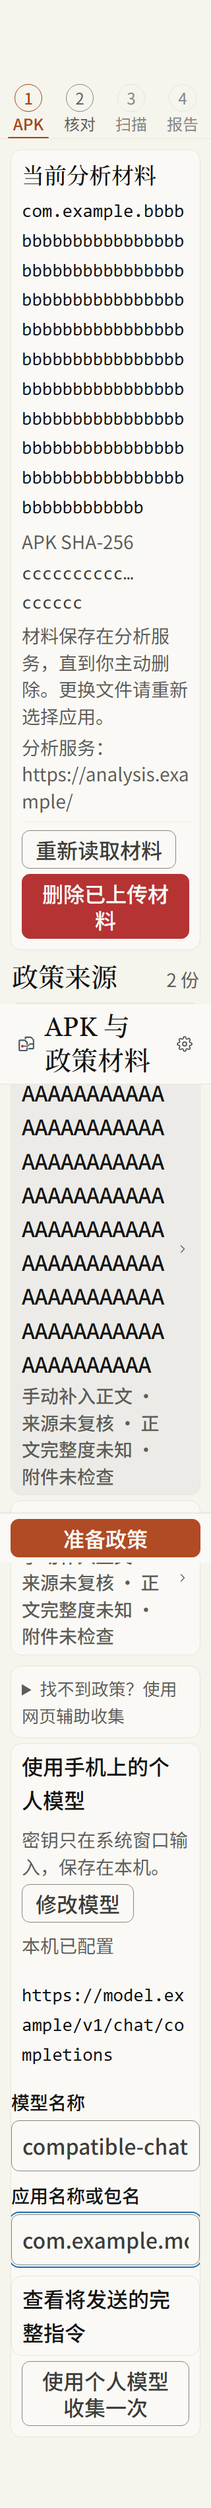
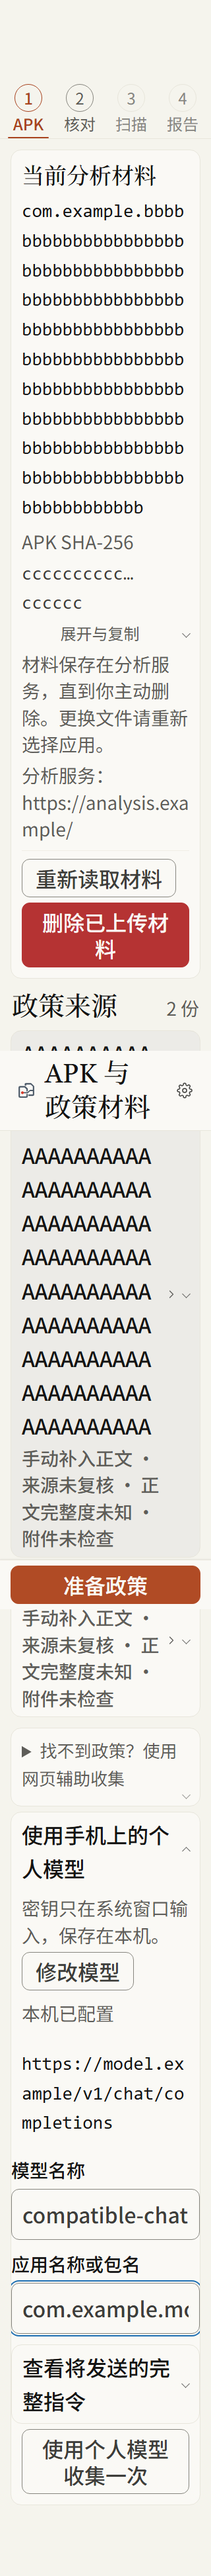
docs(acceptance): 记录 #295 独立审阅处置并重拍证据
- 新增审阅结论与处置：两项必修（报告内部代码/原始时间泄漏、取消分析
  危险语义）已修，可发现性问题已修，结构性问题记为下一轮
- 规范 §16 补充折叠指示、中断操作、分段控件换行与内部代码折叠的约定
- 重拍 320/200、失败态与 390 reading 截图；补导入空态、删除确认、
  设置页、行内证据四张审阅缺口截图

Changed region(s): [[0.0625, 0.0311, 0.9375, 0.9649], [0.8438, 0.3735, 0.9375, 0.4358], [0.7812, 0.7782, 0.875, 0.8093]]

diff --git a/docs/acceptance/issue295/README.md b/docs/acceptance/issue295/README.md
@@ -68,6 +68,12 @@ ASTRA 的两轮截图位于本机忽略目录 `tmp/frontend-visual-acceptance-20
 | `progress-failed-390-after.png` | 失败终态，390px：真实失败原因 + 「重新分析」主操作、「刷新状态」次操作、任务详情折叠 |
 | `progress-failed-320-200-after.png` | 失败终态，320px，200% |
 | `report-320-200-after.png` | 报告，320px，200%（说明不再叠行） |
+| `progress-failed-390-after.png` | 失败终态，390px：真实失败原因 + 「重新分析」主操作、「刷新状态」次操作、任务详情折叠 |
+| `progress-failed-320-200-after.png` | 失败终态，320px，200% |
+| `import-empty-390.png` | 导入空态：空状态卡片承载唯一主 CTA，没有固定底栏 |
+| `material-delete-confirm-390.png` | 删除材料二次确认：作用对象、后果、确认/取消 |
+| `settings-390.png` | 服务与存储设置（全屏 sheet） |
+| `evidence-inline-390.png` | 行内证据：静态线索 → 政策原句 → 未知项 → 技术详情 |
 | `report-390-200-after.png` | 报告，390px，200% |
 
 “改前”截图只在 ASTRA 审阅时提供的本机忽略目录里（`320-import-200.png`、`390-report-200.png`、`320-candidates.png`、`390-evidence-sheet.png`、`390-progress-failed.png` 等），未上传；本目录不复制旧图，避免与历史证据混淆。
@@ -84,3 +90,35 @@ ASTRA 的两轮截图位于本机忽略目录 `tmp/frontend-visual-acceptance-20
 - 未改 `apps/api`、桌面专用布局与视觉；`hierarchy.css` 未改（移动覆盖写在 `mobile.css`）。
 - `CandidatePage.vue`、`EvidencePanel.vue`、`App.vue` 的桌面分支保持原有结构与文案；用 `markdown`/`v-if="!mobile"` 隔离移动行为。
 - 未改 #274 负责的保存确认逻辑；候选保存反馈沿用现状，合并顺序需回读 #289。
+
+## 7. 独立视觉审阅与处置（2026-10-23）
+
+独立只读审阅（子代理，按本规范 §16 与实际截图，不参与实现）给出的结论与处置：
+
+**必须修 → 已修**
+
+1. 报告的蓝色“存档报告查看 · PERSISTED REPLAY / 分析生成时点：2026-10-14T08:06:00Z”主阅读流泄漏内部投递代码与原始 ISO 时间。
+   → 移动端只保留中文语义（“存档报告查看”/“离线回放”），时间改本地可读、原始值进 `datetime`/`title`，投递代码收进“来源标识”折叠；桌面保持冻结原文案（`verify-browser-acceptance` 的 `OFFLINE REPLAY · 离线回放` 断言不受影响）。
+2. 进度进行中的“取消分析”与“刷新状态”同权同形、无中断语义，且排在“刷新”之前。
+   → 取消改为危险文字色、排在“刷新状态”之后，状态卡补“取消只停止本次分析，材料会保留”。
+
+**建议修 → 已修**
+
+- 折叠入口补可见 ▾（材料条自带的“详情 >”不重复加）
+- 哈希缩略值补“展开与复制”提示
+- 候选列表容器改透明底，减少“卡片套卡片”观感
+- 分段控件按 `8em` 换行，200% 下不再 3+1 断行
+- “查看 N 条证据”整行不拆，chevron 跟随文本
+- 报告条目头左对齐、状态标签靠右
+- 材料条“更换材料”改中性文字
+
+**未在本次处理（记录为下一轮）**
+
+- 320/200 顶栏标题 2–3 行：规范未给顶栏增高例外，记录为首屏空间代价；若要收，需要补 §16 或调标题字号。
+- 报告信息架构：蓝色 provenance 块、“报告版本、权限与全部政策快照”、“报告来源与版本”与页脚仍分散在结论之后；合并属于结构改动，不在本票几何/层级范围。
+- 超长来源标题（fixture 120 字符）在 200% 下展开 6 行；真实数据概率低，建议下一轮加“2 行 + 展开”。
+- “保存并分析”（底栏）与“保存候选”（表单）的语义边界：涉及 #274 保存接缝，待其合并后统一。
+- 步骤可见短名 APK/核对/扫描/报告 与 §6.2 的 导入/候选/进度/报告 不一致：已在本票补充的 §16 记录“可见短名 + aria-label 全名”的约定。
+
+审阅未能评估、现已补图的界面：导入空态、删除材料确认、设置页、行内证据（见 §4 截图表）。
+

diff --git a/docs/design/frontend-design-spec-mobile.md b/docs/design/frontend-design-spec-mobile.md
@@ -543,7 +543,8 @@ Pioneer 仍是历史来源，不是被推翻的错误：颜色、字号、控件
 - **按钮层级**（§8.1 的落地细则）：一屏至多一个陶土实心主操作；次操作用中性文字（`--mt-fg-2`）或轻量样式，不再复用强调色。来源切换是标签栏（无描边、选中 2px 下划线、可横滚、短名互不重复且当前来源完整标题随行可见）；候选选择是列表行（容器一条描边、行间 1px 分隔线、选中状态层 + 2px 下划线），不再逐行套卡片。删除材料统一危险色，并在原位二次确认作用对象与后果。
 - **行高**（覆盖 §5.2 的固定像素行高）：移动报告内标题与说明改用相对行高（标题 1.35、说明 1.5），覆盖 `hierarchy.css` 为桌面冻结保留的 24/22/20px 固定值；桌面不继承这些覆盖。
 - **证据与报告**（§8.8 的阅读顺序）：移动证据卡先给静态线索、政策原句与未知项，方法签名、规则版本、原始 JSON 收进“技术详情”；来源与投递的内部代码（`REAL_SCAN` / `PERSISTED_REPLAY`）进入“来源标识”折叠，首屏只保留中文语义与必要限制（扫描范围 PARTIAL、待复核条目数）。
-- **时间与标识**：移动壳统一显示本地可读时间，原始 ISO 值保留在 `datetime`/`title`；任务 ID、材料标识收进“任务详情/报告来源与版本”；哈希默认缩略，可展开看完整值并复制。
+- **时间与标识**：移动壳统一显示本地可读时间，原始 ISO 值保留在 `datetime`/`title`；任务 ID、材料标识收进“任务详情/报告来源与版本”；哈希默认缩略，可展开看完整值并复制。来源/投递的内部代码（`REAL_SCAN`、`PERSISTED_REPLAY`、`OFFLINE_REPLAY`）不进入主阅读流，只在“来源标识”折叠内出现。
+- **可发现性与中断操作**（2026-10-23 独立视觉审阅后补充）：移动壳内所有 `<details>` 的 summary 统一带 ▾ 指示（材料条自带的“详情 >”不重复加）；“取消分析”这类中断性操作使用危险文字色、排在“刷新状态”之后，并在状态卡说明“只停止本次分析，材料会保留”；分段控件在 200% 根字号下按整行换行，不做 3+1 断行。
 - **验收**：`verify-mobile-flow.cjs` 在 320/390 的 200% 场景断言主操作不逐字竖排、底栏不超过视口 40%、当前步骤标签完整不裁切；`verify-mobile-reading.cjs` 断言报告说明使用相对行高，且内部代码只在“来源标识”展开后可读。
 
 ## 附录 A：CSS token 草案
